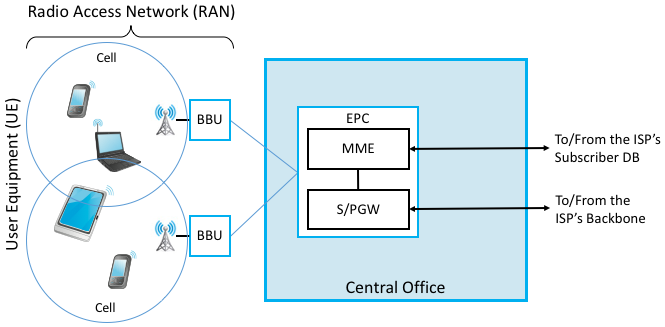
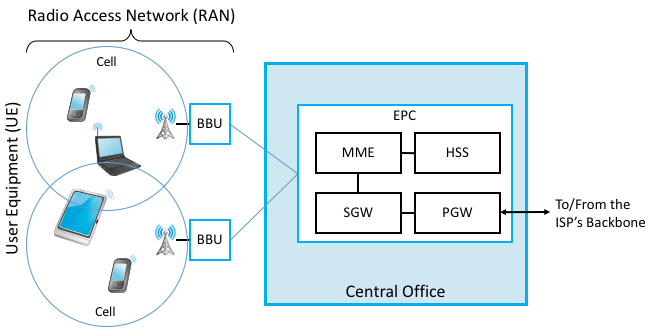
corrected access

diff --git a/access.md b/access.md
@@ -11,7 +11,7 @@ multi-access (like Ethernet and Wi-Fi), but as we will see, their
 approach to mediating access is quite different.
 
 To set a little more context, ISPs (often a Telco or Cable company)
-typically operate a national backbone, and connected to the periphery
+often operate a national backbone, and connected to the periphery
 of that backbone are hundreds or thousands of edge sites, each of
 which serves a city or neighborhood. These edge sites are commonly
 called *Central Offices* in the Telco world and *Head Ends* in the
@@ -106,7 +106,7 @@ new/next-generation technologies, each of which occupies a different
 frequency band. The high-level summary is that traditional cellular
 technolgies range from 700-MHz to 2400-MHz, with new mid-spectrum
 allocations now happening at 6-GHz and millimeter-wave (mmWave)
-allocations openning in the 30 to 300-GHz band. One interesting
+allocations openning above 24-GHz. One interesting
 footnote is that there is also an unlicensed band at 3.5-GHz set aside
 in North America, called *Citizens Broadband Radio Service* (CBRS),
 that anyone with a cellular radio can use. This opens the door for
@@ -128,18 +128,20 @@ served by the EPC is often called a *Radio Access Network* (RAN).
 > long, we have decided to use the more generic and less cryptic BBU.
 
 [Figure 2](#ran) depicts one possible configuration of the end-to-end
-scenario, with two additional bits of detail. The EPC has multiple
-subcomponents, including an MME (Mobility Management Entity)
-and an S/PGW (Session/Packet Gateway); the former tracks and manages
-the movement of UEs throughout the RAN, and the latter processes and
-forwards packets between the RAN and the Internet. We say "one
-possible configuration" because the celluar standards allow wide
-variability in how many S/PGWs a given MME is responsible for, making
-is possible for a single MME to manage mobility across a wide
-geographic area that is served by multiple Central Offices. Finally,
-while not explicitly spelled out in [Figure 2](#ran), it is sometimes
-the case that the ISP's PON network is used to connect the remote BBUs
-back to the Central Office.
+scenario, with a few additional bits of detail. The EPC has multiple
+subcomponents, including an MME (Mobility Management Entity), an
+HSS (Home Subscriber Server), and an S/PGW (Session/Packet Gateway)
+pair; the first tracks and manages the movement of UEs throughout the
+RAN, the second is a database that contains subscriber-related
+information, and the Gateway pair processes and forwards packets
+between the RAN and the Internet (it forms the EPC's *user plane*).
+We say "one possible configuration" because the celluar standards
+allow wide variability in how many S/PGWs a given MME is responsible
+for, making is possible for a single MME to manage mobility across a
+wide geographic area that is served by multiple Central
+Offices. Finally, while not explicitly spelled out in
+[Figure 2](#ran), it is sometimes the case that the ISP's PON network
+is used to connect the remote BBUs back to the Central Office.
 
 <figure class="line">
 	<a id="ran"></a>
@@ -202,11 +204,12 @@ increase/decrease the power they use to transmit, effectively allowing
 them to dynamically change cell size. This makes it possible to move
 UEs from one cell to another on the fly.
 
-Taken all together, this gives the RAN three degrees of freedom, which
-improves its ability to squeeze the most capacity out of the
-limited spectrum. More importantly, this flexibility provides
-opportunities for ISPs to offer new services to their subscribers,
-supporting applications that range from bandwidth-hungry video and
-virutual/augmented reality to latency-sensitive autonomous cars and
-Internet-of-Things. The challenge of 5G is how to control and best
-take advantage of this flexibility.
+Taken all together, this gives the RAN three degrees of freedom
+(frequency, time, power), which improves its ability to squeeze the
+most capacity out of the limited spectrum. More importantly, this
+flexibility provides opportunities for ISPs to offer new services to
+their subscribers, supporting applications that range from
+bandwidth-hungry video and virutual/augmented reality to
+latency-sensitive autonomous cars and Internet-of-Things. The
+challenge of 5G is how to control and best take advantage of this
+flexibility.
